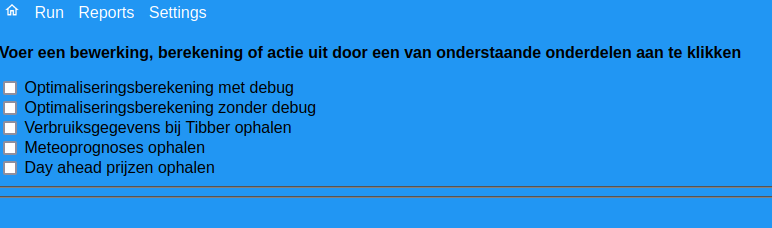
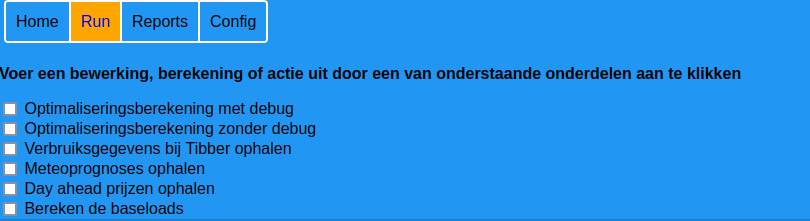
Addon versie 2024.3.0 Een nieuwe versie met daarin de mogelijkheid om zelf dynamisch(!) je baseload per weekdag te berekenen.

Changed region(s): [[0.0, 0.2986, 1.0, 1.0], [0.0, 0.0, 0.9637, 0.2715]]

diff --git a/dao/prog/day_ahead.py b/dao/prog/day_ahead.py
@@ -226,7 +226,7 @@ class DayAheadOpt(hass.Hass):
         :param weekday: : 0 = maandag, 6 zondag
         :return: een lijst van eerder berekende baseload van 24uurvoor de betreffende dag
         """
-        in_file = "../data/baseload_" + str(weekday) + ".json"
+        in_file = "../data/baseload/baseload_" + str(weekday) + ".json"
         with open(in_file, 'r') as f:
             result = json.load(f)
         return result
@@ -354,6 +354,7 @@ class DayAheadOpt(hass.Hass):
 
         # base load
         if self.use_calc_baseload:
+            print(f"\nZelf berekende baseloads:")
             weekday = datetime.datetime.weekday(datetime.datetime.now())
             base_cons = self.get_calculated_baseload(weekday)
             if U > 24:
@@ -362,11 +363,11 @@ class DayAheadOpt(hass.Hass):
                 weekday = weekday % 7
                 base_cons = base_cons + self.get_calculated_baseload(weekday)
         else:
+            print(f"\nBaseload uit instellingen:")
             base_cons = self.config.get(["baseload"])
             if U > 24:
                 base_cons = base_cons + base_cons
 
-        print("\nBase load:")
         pprint(base_cons)  # basislast van 0 tot 23/47 uur
 
         # 0.015 kWh/J/cm² productie van mijn panelen per J/cm²
@@ -836,7 +837,6 @@ class DayAheadOpt(hass.Hass):
             charge_stages.append(ev_stages)
             ECS.append(len(charge_stages[e]))
             max_ampere = charge_stages[e][-1]["ampere"]
-            #max_ampere = self.get_state(self.ev_options[e]["entity max amperage"]).state
             try:
                 max_ampere = float(max_ampere)
             except ValueError:
@@ -1889,8 +1889,8 @@ def main():
                 day_ah.clean_data()
                 day_ah.set_last_activity()
                 continue
-            if arg.lower() == "calc_baseload":
-                day_ah.calc_baseload()
+            if arg.lower() == "calc_baseloads":
+                day_ah.calc_baseloads()
                 day_ah.set_last_activity()
                 continue
         if task != "":

diff --git a/dao/prog/da_report.py b/dao/prog/da_report.py
@@ -1004,7 +1004,7 @@ class Report:
             baseload = self.calc_weekday_baseload(weekday)
             print(f"baseload voor weekdag {weekday} :", end=" ")
             print(baseload, sep=", ")
-            out_file = "../data/baseload_" + str(weekday) +".json"
+            out_file = "../data/baseload/baseload_" + str(weekday) +".json"
             with open(out_file, 'w') as f:
                 print(json.dumps(baseload, indent=2), file=f)
         return

diff --git a/dao/webserver/app/routes.py b/dao/webserver/app/routes.py
@@ -60,6 +60,13 @@ bewerkingen = {
             "../prog/day_ahead.py",
             "prices"],
         "task": "get_day_ahead_prices"},
+    "calc_baseloads": {
+        "name": "Bereken de baseloads",
+        "cmd": [
+            "python3",
+            "../prog/day_ahead.py",
+            "calc_baseloads"],
+        "task": "calc_baseloads"},
 }
 
 def get_file_list(path: str, pattern: str) -> list:

diff --git a/dao/prog/_version.py b/dao/prog/_version.py
@@ -1,1 +1,1 @@
-__version__ = '2024.2.8'
+__version__ = '2024.3.1'

diff --git a/dao/DOCS.md b/dao/DOCS.md
@@ -239,9 +239,9 @@ Ga je hier voor de eerste keer mee aan gang volg dan de volgende aanpak:
 * laat de rest "blanko" 
   * boiler, boiler present false
   * heating, heater present false
-  * battery: leeg = "[]"
-  * solar: leeg = "[]"
-  * electric vehicle: leeg = "[]"
+  * battery: leeg = "[ ]"
+  * solar: leeg = "[ ]"
+  * electric vehicle: leeg = "[ ]"
   * tibber nog niet invullen of wijzigen
   * scheduler: alles laten staan
 * Kijk nu of de add-on wil opstarten, kijk na ca 10 seconden naar de logging en probeer
@@ -474,7 +474,7 @@ Deze kan op twee manieren worden verkregen:
 
 #### baseload berekenen
 Als je de baseload door het programma wilt laten berekenen moet je de volgende instellingen meegeven:
-* "baseload calc": "True"/"False" default "False" <br>
+* "use_calc_baseload": "True"/"False" default "False" <br>
 Hiermee vertel je het programma dat de baseload moet worden berekend. 
 * "baseload calc periode": default 56<br>
 Hiermee geeft je het aantal dagen op waarover de baseload moet worden berekend
@@ -489,18 +489,16 @@ het verbruik of de productie van alle relevante beinvloedbare gebruikers registe
   * ev consumption
   * wp consumption
   * boiler consumption<br>
+* In de scheduler (zie hierna) zet je een regel met een commando dat de baseloads iedere dag 
+een keer worden geactualiseerd: <br> bijvoorbeeld ` "2230": "calc_baseloads"`
   
-**opmerkingen**:<br>
+**opmerking**:<br>
 - Als je iets niet hebt (bijvoorbeeld geen elektrische auto) dan laat je de lijst achter het onderdeel leeg.<br>
  Bijvoorbeeld: `"entities ev consumption": []`
-- In deze versie duurt het berekenen van de baseload over 56 dagen lang (ca 30 seconden). 
- Een voorlopige oplossing daarvoor kan zijn om 
-  - Baseload calc tijdelijk op true te zetten. 
-  - Met het programma een "debug"berekening uit te voeren
-  - De verkregen baseload-gegevens kopieren van het uitvoerscherm naar je instellingen.
+
 
 #### baseload opgeven
-Je zet "baseload calc": "False" (default) of je laat deze regel weg (false is de default waarde)<br>
+Je zet "use_calc_baseload": "False" (default) of je laat deze regel weg (false is de default waarde)<br>
 Je vult bij "baseload" 24 waarden in een lijst. Dat is voor de 24 uren van een etmaal het basisverbruik van je woning.
 Deze bepaal je als volgt:<br>
 * neem voor een voldoende lange periode (minimaal een maand) de geregistreerde energiehoeveelheden per uur op de volgende onderdelen:
@@ -1151,4 +1149,6 @@ Voert de "optimaliseringsberekening" uit:
 * presenteert een tabel met alle geprognoticeerde uurdata <br>
 * berekent een grafiek met alle geprognoticeerde uurdata en slaat deze op
 
-
+### **calc_baseloads**<br>
+Berekent voor 7 weekdagen de baseload en sluit deze op zodat deze kan worden teruggevonden
+als bij de uurlijkse berekeningen daarvan gebruik gemaakt gaat worden (`"use_calc_baseload": "True"`)

diff --git a/dao/CHANGELOG.md b/dao/CHANGELOG.md
@@ -1,5 +1,8 @@
 # Changelog 刀 DAO
 # Day Ahead Optimization
+## [V2024.3.0]
+Vanaf deze versie kun je de te gebruiken baseload(s) in de berekening door het systeem zelf laten berekenen.
+Zie DOCS.md
 
 ## [V2024.2.8]
 Er zat een fout in de opgehaalde meteogegevens. In tegenstelling tot de documentatie van 
